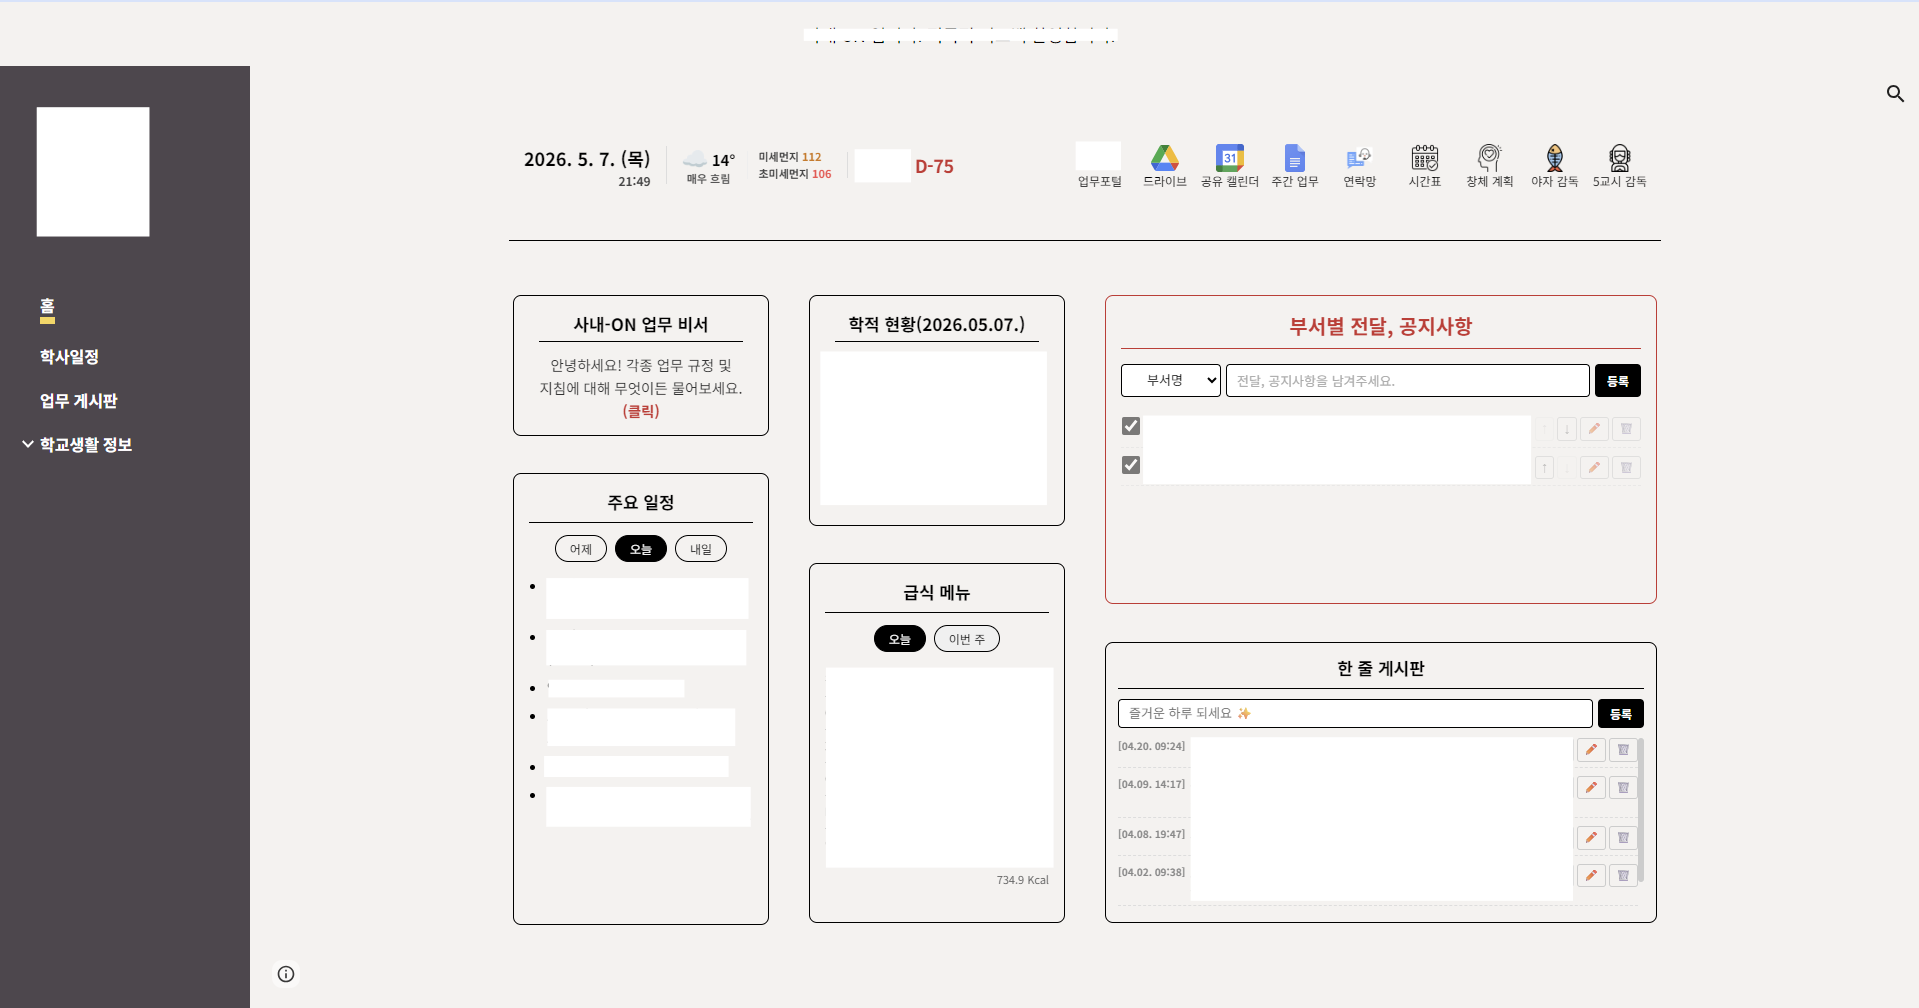
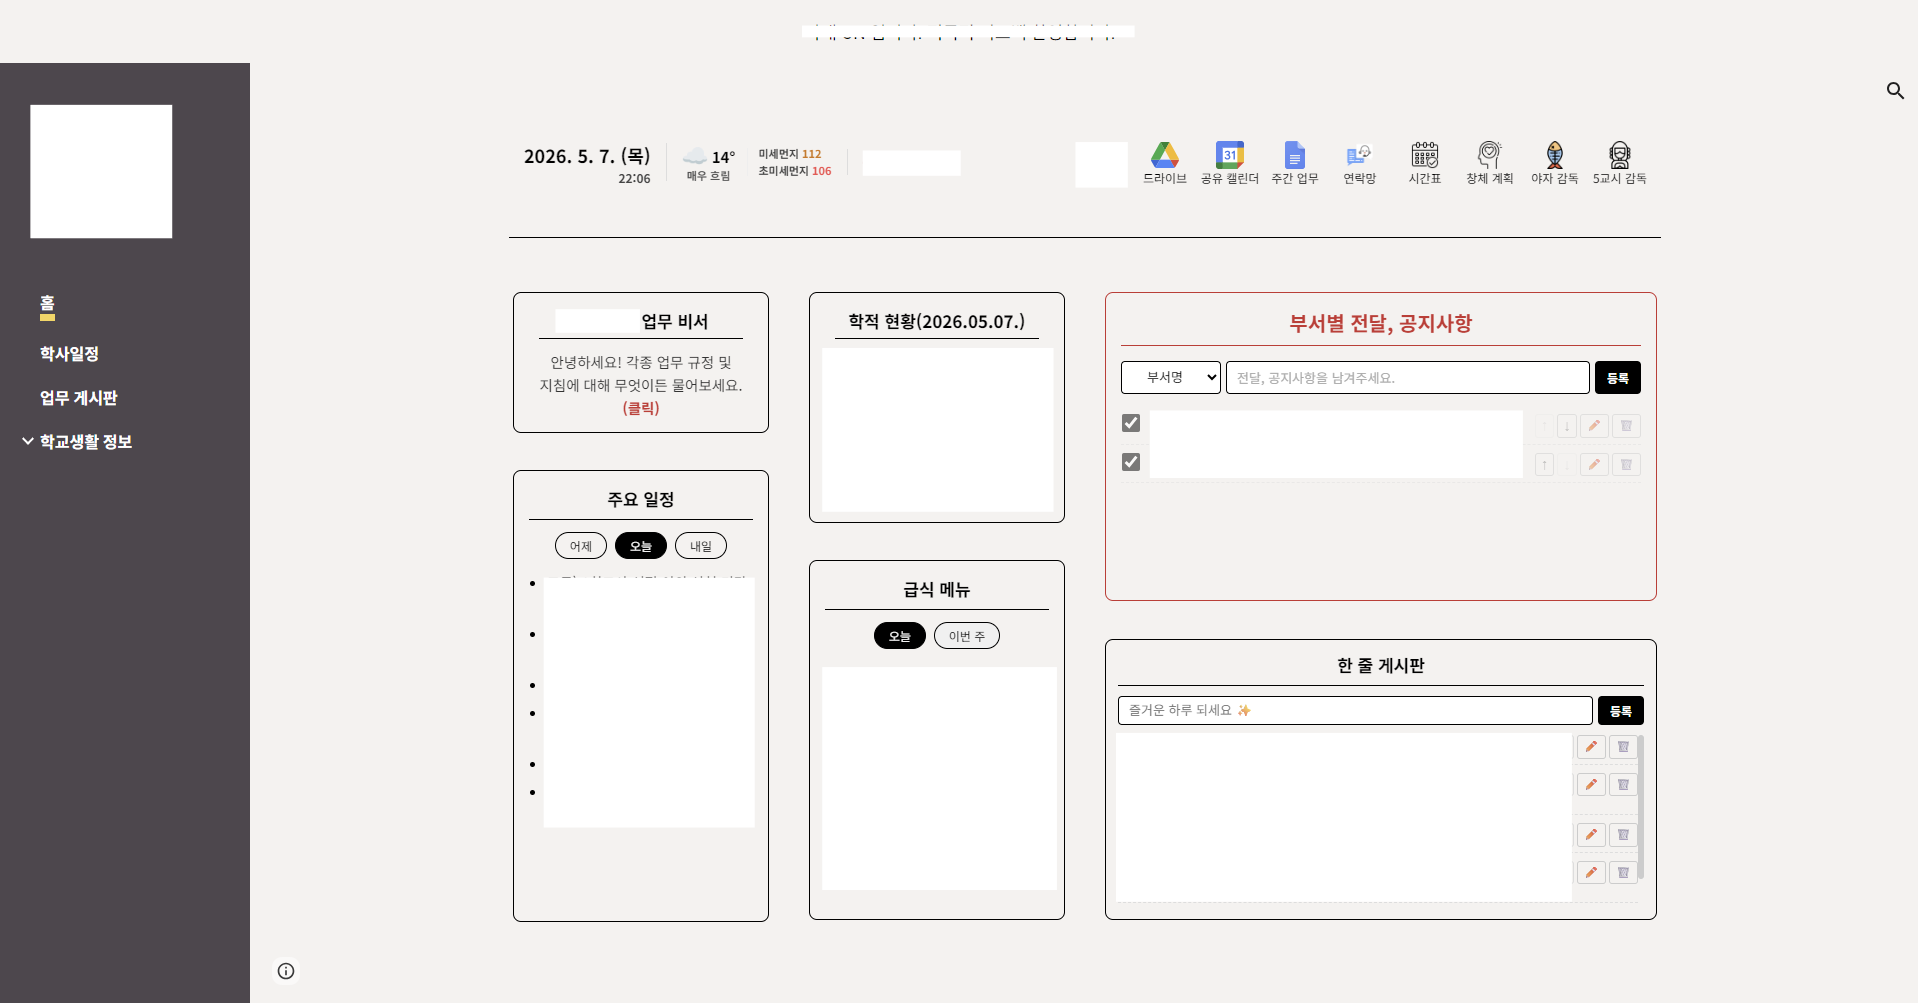
작업일지 업무비서: 홈화면 이미지 교체 및 1픽셀 단락 삭제

diff --git a/notes/2026-05-07-onmusil-assistant.html b/notes/2026-05-07-onmusil-assistant.html
@@ -399,11 +399,6 @@
         기다리는 시간을 '느리다'가 아니라 '꼼꼼히 본다'로 받아들여 주시면 좋겠다는 마음이었어요.
       </p>
 
-      <p>
-        가장 시간을 많이 쓴 건 의외로 <strong>테두리 높이를 1픽셀 단위로 맞추는 일</strong>이었습니다.
-        옆 위젯과 하단 라인이 살짝만 어긋나도 화면이 어수선해 보이거든요.
-      </p>
-
       <h2>아직 서툰 비서</h2>
 
       <p>